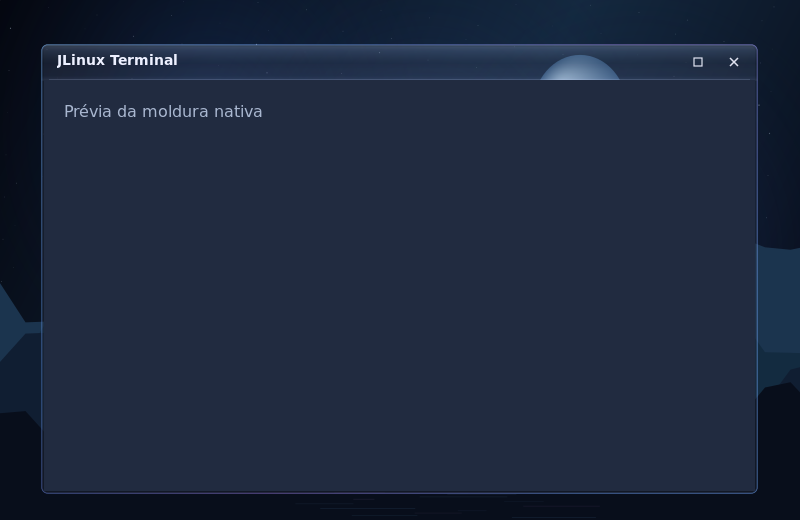
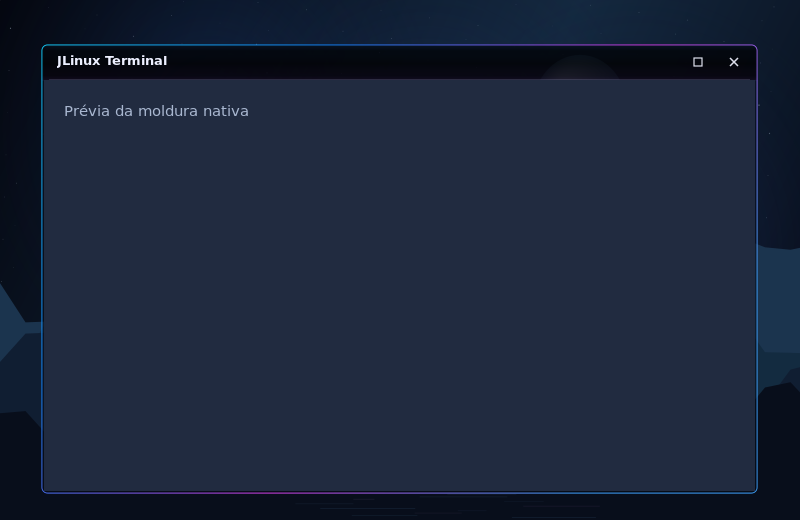
feat: consolidate pending desktop visuals on the installed base

Changed region(s): [[0.0312, 0.0615, 0.9688, 0.1538], [0.0625, 0.9231, 0.9375, 0.9538], [0.0938, 0.1846, 0.3125, 0.2462]]

diff --git a/src/shell/main.c b/src/shell/main.c
@@ -24,7 +24,8 @@
 #include <wayland-cursor.h>
 #include "layer-shell-client.h"
 extern char **environ;
-enum { PANEL_HEIGHT = 36, PANEL_MARGIN = 6, PANEL_ZONE = 44 };
+enum { PANEL_BODY_HEIGHT = 36, PANEL_FADE_HEIGHT = 16,
+    PANEL_HEIGHT = PANEL_BODY_HEIGHT + PANEL_FADE_HEIGHT, PANEL_MARGIN = 6, PANEL_ZONE = PANEL_HEIGHT };
 struct app;
 struct surface {
     struct app *app;
@@ -119,9 +120,9 @@ static void paint(struct surface *surface, cairo_t *cr) {
     } else if (surface == &surface->app->wallpaper) {
         ui_wallpaper(cr, width, height);
     } else {
-        jlinux_glass_paint(cr, (struct ui_rect){1, 1, width - 2, height - 2}, (height - 2) / 2.0,
-            surface->app->backdrop, PANEL_MARGIN, PANEL_MARGIN, surface->app->glass);
-        cairo_save(cr); cairo_translate(cr, 0, (height - 54) / 2.0);
+        jlinux_glass_panel_paint(cr, width, PANEL_BODY_HEIGHT, PANEL_FADE_HEIGHT,
+            surface->app->backdrop, surface->app->glass);
+        cairo_save(cr); cairo_translate(cr, 0, (PANEL_BODY_HEIGHT - 54) / 2.0);
         time_t now = time(NULL); struct tm local;
         localtime_r(&now, &local);
         char clock[64]; strftime(clock, sizeof(clock), "%d/%m  •  %H:%M", &local);
@@ -226,6 +227,12 @@ static bool create_surface(struct app *app, struct surface *surface, const char 
     zwlr_layer_surface_v1_set_exclusive_zone(surface->layer, zone);
     zwlr_layer_surface_v1_set_margin(surface->layer, margin, margin, margin, margin);
     zwlr_layer_surface_v1_set_keyboard_interactivity(surface->layer, ZWLR_LAYER_SURFACE_V1_KEYBOARD_INTERACTIVITY_NONE);
+    if (surface == &app->panel && !app->power_panel && !app->volume_panel) {
+        struct wl_region *input = wl_compositor_create_region(app->compositor);
+        if (!input) { return false; }
+        wl_region_add(input, 0, 0, 8192, PANEL_BODY_HEIGHT);
+        wl_surface_set_input_region(surface->wl, input); wl_region_destroy(input);
+    }
     if (surface == &app->wallpaper) {
         struct wl_region *empty = wl_compositor_create_region(app->compositor);
         if (!empty) { return false; }
@@ -267,7 +274,7 @@ static void toggle_power(struct app *app) {
         ZWLR_LAYER_SURFACE_V1_ANCHOR_TOP | ZWLR_LAYER_SURFACE_V1_ANCHOR_RIGHT, 320, 260, -1, PANEL_MARGIN)) {
         close_power(app); notice(app, "Não foi possível abrir o menu de energia."); return;
     }
-    zwlr_layer_surface_v1_set_margin(app->power.layer, PANEL_MARGIN + PANEL_HEIGHT + 6, PANEL_MARGIN, 0, 0);
+    zwlr_layer_surface_v1_set_margin(app->power.layer, PANEL_MARGIN + PANEL_BODY_HEIGHT + 6, PANEL_MARGIN, 0, 0);
     wl_surface_commit(app->power.wl);
 }
 static void request_power(struct app *app) {
@@ -382,11 +389,11 @@ static int preview(const char *path) {
     struct app app = {0};
     if (!jlinux_glass_settings(&app.glass)) { return 1; }
     app.wallpaper = (struct surface){.app = &app, .width = 1672, .height = 941};
-    app.panel = (struct surface){.app = &app, .width = 1672 - 2 * PANEL_MARGIN, .height = PANEL_HEIGHT};
+    app.panel = (struct surface){.app = &app, .width = 1672, .height = PANEL_HEIGHT};
     cairo_surface_t *image = cairo_image_surface_create(CAIRO_FORMAT_ARGB32, 1672, 941);
     if (!prepare_backdrop(&app)) { cairo_surface_destroy(image); return 1; }
     cairo_t *cr = cairo_create(image); paint(&app.wallpaper, cr);
-    cairo_push_group(cr); cairo_translate(cr, PANEL_MARGIN, PANEL_MARGIN); paint(&app.panel, cr);
+    cairo_push_group(cr); paint(&app.panel, cr);
     cairo_pop_group_to_source(cr); cairo_paint(cr); cairo_identity_matrix(cr);
     cairo_status_t status = cairo_surface_write_to_png(image, path);
     cairo_destroy(cr); cairo_surface_destroy(image);
@@ -431,10 +438,10 @@ int main(int argc, char **argv) {
     if (!power_panel && !volume_panel && !create_surface(&app, &app.wallpaper, "jlinux-wallpaper", ZWLR_LAYER_SHELL_V1_LAYER_BACKGROUND, all, 0, 0, -1, 0)) { goto cleanup; }
     if (!volume_panel && !create_surface(&app, &app.panel, power_panel ? "jlinux-power-button" : "jlinux-panel", power_panel ? ZWLR_LAYER_SHELL_V1_LAYER_OVERLAY : ZWLR_LAYER_SHELL_V1_LAYER_TOP,
         ZWLR_LAYER_SURFACE_V1_ANCHOR_TOP | ZWLR_LAYER_SURFACE_V1_ANCHOR_RIGHT |
-        (power_panel ? 0 : ZWLR_LAYER_SURFACE_V1_ANCHOR_LEFT), power_panel ? 44 : 0, PANEL_HEIGHT, power_panel ? -1 : PANEL_ZONE, PANEL_MARGIN)) { goto cleanup; }
+        (power_panel ? 0 : ZWLR_LAYER_SURFACE_V1_ANCHOR_LEFT), power_panel ? 44 : 0, power_panel ? PANEL_BODY_HEIGHT : PANEL_HEIGHT, power_panel ? -1 : PANEL_ZONE, power_panel ? PANEL_MARGIN : 0)) { goto cleanup; }
     if (volume_panel) {
         if (!create_surface(&app, &app.panel, "jlinux-volume-button", ZWLR_LAYER_SHELL_V1_LAYER_OVERLAY,
-            ZWLR_LAYER_SURFACE_V1_ANCHOR_TOP | ZWLR_LAYER_SURFACE_V1_ANCHOR_RIGHT, 54, PANEL_HEIGHT, -1, PANEL_MARGIN)) { goto cleanup; }
+            ZWLR_LAYER_SURFACE_V1_ANCHOR_TOP | ZWLR_LAYER_SURFACE_V1_ANCHOR_RIGHT, 54, PANEL_BODY_HEIGHT, -1, PANEL_MARGIN)) { goto cleanup; }
         zwlr_layer_surface_v1_set_margin(app.panel.layer, PANEL_MARGIN, 278, 0, 0);
         wl_surface_commit(app.panel.wl);
     }

diff --git a/src/effects/glass.c b/src/effects/glass.c
@@ -30,6 +30,7 @@ void jlinux_glass_paint(cairo_t *cr, struct ui_rect rect, double radius,
         cairo_save(cr); cairo_scale(cr, 4, 4);
         cairo_set_source_surface(cr, backdrop, -origin_x / 4, -origin_y / 4);
         cairo_pattern_set_filter(cairo_get_source(cr), CAIRO_FILTER_BILINEAR);
+        cairo_pattern_set_extend(cairo_get_source(cr), CAIRO_EXTEND_PAD);
         cairo_paint(cr); cairo_restore(cr);
     }
     if (effects.tint) {
@@ -98,6 +99,22 @@ void jlinux_glass_paint(cairo_t *cr, struct ui_rect rect, double radius,
     }
 }
 
+void jlinux_glass_panel_paint(cairo_t *cr, double width, double body_height, double fade_height,
+        cairo_surface_t *backdrop, struct jlinux_glass effects) {
+    double height = body_height + fade_height;
+    cairo_save(cr); cairo_rectangle(cr, 0, 0, width, height); cairo_clip(cr);
+    cairo_push_group(cr);
+    /* Keep every material edge outside the panel; only the alpha ramp ends it. */
+    jlinux_glass_paint(cr, (struct ui_rect){-6, -6, width + 12, height + 32}, 0,
+        backdrop, 0, 0, effects);
+    cairo_pop_group_to_source(cr);
+    cairo_pattern_t *fade = cairo_pattern_create_linear(0, body_height, 0, height);
+    cairo_pattern_add_color_stop_rgba(fade, 0, 1, 1, 1, 1);
+    cairo_pattern_add_color_stop_rgba(fade, 1, 1, 1, 1, 0);
+    cairo_mask(cr, fade); cairo_pattern_destroy(fade);
+    cairo_restore(cr);
+}
+
 bool jlinux_glass_settings(struct jlinux_glass *effects) {
     const char *names[] = {"JLINUX_GLASS_BLUR", "JLINUX_GLASS_TINT", "JLINUX_GLASS_REFLECTION", "JLINUX_GLASS_SHADOW"};
     bool *values[] = {&effects->blur, &effects->tint, &effects->reflection, &effects->shadow};
@@ -111,27 +128,33 @@ bool jlinux_glass_settings(struct jlinux_glass *effects) {
     return true;
 }
 
+void jlinux_glass_window_tint(cairo_t *cr, struct ui_rect rect, double radius) {
+    cairo_save(cr); rounded(cr, rect, radius);
+    cairo_set_source_rgba(cr, .006, .009, .016, .88); cairo_fill(cr);
+    cairo_restore(cr);
+}
+
 void jlinux_glass_window_reflections(cairo_t *cr, struct ui_rect rect, double radius, double header) {
     cairo_save(cr); rounded(cr, rect, radius); cairo_clip(cr);
     cairo_pattern_t *sheen = cairo_pattern_create_linear(0, rect.y, 0, rect.y + header);
-    cairo_pattern_add_color_stop_rgba(sheen, 0, .63, .77, 1, .12);
-    cairo_pattern_add_color_stop_rgba(sheen, .18, .34, .51, .85, .07);
+    cairo_pattern_add_color_stop_rgba(sheen, 0, .20, .55, 1, .12);
+    cairo_pattern_add_color_stop_rgba(sheen, .18, .12, .32, .78, .035);
     cairo_pattern_add_color_stop_rgba(sheen, .52, .02, .04, .09, .08);
-    cairo_pattern_add_color_stop_rgba(sheen, .86, .18, .24, .42, .04);
-    cairo_pattern_add_color_stop_rgba(sheen, 1, .65, .72, .94, .12);
+    cairo_pattern_add_color_stop_rgba(sheen, .86, .45, .16, .78, .045);
+    cairo_pattern_add_color_stop_rgba(sheen, 1, .58, .32, 1, .10);
     cairo_save(cr); cairo_rectangle(cr, rect.x, rect.y, rect.width, header); cairo_clip(cr);
     cairo_set_source(cr, sheen); cairo_paint(cr); cairo_restore(cr); cairo_pattern_destroy(sheen);
     /* A continuous chromatic rim avoids isolated white light sources. */
     for (int pass = 0; pass < 2; pass++) {
         cairo_pattern_t *edge = cairo_pattern_create_linear(rect.x, rect.y,
             rect.x + rect.width * .75, rect.y + rect.height);
-        double alpha = pass ? .94 : .18;
-        cairo_pattern_add_color_stop_rgba(edge, 0, .22, .62, 1, alpha);
-        cairo_pattern_add_color_stop_rgba(edge, .32, .14, .40, 1, alpha * .90);
-        cairo_pattern_add_color_stop_rgba(edge, .66, .70, .30, .94, alpha * .96);
-        cairo_pattern_add_color_stop_rgba(edge, 1, .25, .52, 1, alpha);
+        double alpha = pass ? 1 : .18;
+        cairo_pattern_add_color_stop_rgba(edge, 0, .08, .82, 1, alpha);
+        cairo_pattern_add_color_stop_rgba(edge, .32, .08, .52, 1, alpha);
+        cairo_pattern_add_color_stop_rgba(edge, .66, .84, .24, .91, alpha);
+        cairo_pattern_add_color_stop_rgba(edge, 1, .24, .64, 1, alpha);
         rounded(cr, rect, radius); cairo_set_source(cr, edge);
-        cairo_set_line_width(cr, pass ? .85 : 2.8); cairo_stroke(cr);
+        cairo_set_line_width(cr, pass ? 1.6 : 2.2); cairo_stroke(cr);
         cairo_pattern_destroy(edge);
     }
     cairo_restore(cr);

diff --git a/tests/window-frame.c b/tests/window-frame.c
@@ -29,6 +29,11 @@ int main(int argc, char **argv) {
     uint32_t left = *(uint32_t *)((unsigned char *)pixels + stride + 80 * 4);
     uint32_t middle = *(uint32_t *)((unsigned char *)pixels + stride + 360 * 4);
     uint32_t right = *(uint32_t *)((unsigned char *)pixels + stride + 640 * 4);
+    uint32_t edge = *(uint32_t *)((unsigned char *)pixels + 2 * stride + 80 * 4);
+    CHECK((edge & 255) > (left & 255));
+    uint32_t pink = *(uint32_t *)((unsigned char *)pixels + 2 * stride + 230 * 4);
+    CHECK(((pink >> 16) & 255) * 100 > (pink & 255) * 85);
+    CHECK(((pink >> 16) & 255) > ((pink >> 8) & 255) * 2);
     /* Continuous light: no former bottom hotspot; hue still changes along the rim. */
     for (int x = 81; x < 640; x++) {
         uint32_t previous = *(uint32_t *)((unsigned char *)pixels + stride + (x - 1) * 4);
@@ -45,6 +50,9 @@ int main(int argc, char **argv) {
     CHECK(wlr_buffer_begin_data_ptr_access(frame.parts[0]->buffer, WLR_BUFFER_DATA_PTR_ACCESS_READ,
         &pixels, &format, &stride));
     uint32_t plain = *(uint32_t *)((unsigned char *)pixels + stride + 195 * 4);
+    uint32_t header_center = *(uint32_t *)((unsigned char *)pixels + 18 * stride + 360 * 4);
+    CHECK((header_center >> 24) >= 220 && (header_center >> 24) < 255);
+    CHECK(((header_center >> 16) & 255) <= 8 && ((header_center >> 8) & 255) <= 8 && (header_center & 255) <= 8);
     wlr_buffer_end_data_ptr_access(frame.parts[0]->buffer);
     CHECK((lit >> 24) > (plain >> 24));
     CHECK(wlr_buffer_begin_data_ptr_access(frame.parts[3]->buffer, WLR_BUFFER_DATA_PTR_ACCESS_READ,
@@ -58,7 +66,13 @@ int main(int argc, char **argv) {
     uint32_t unshaded = *(uint32_t *)((unsigned char *)pixels + stride + 280 * 4);
     wlr_buffer_end_data_ptr_access(frame.parts[3]->buffer);
     CHECK((shaded >> 24) > (unshaded >> 24));
-    effects.shadow = true;
+    effects.tint = false;
+    CHECK(jlinux_window_frame_update(&frame, 711, 411, "JLinux Terminal", effects, false));
+    CHECK(wlr_buffer_begin_data_ptr_access(frame.parts[0]->buffer, WLR_BUFFER_DATA_PTR_ACCESS_READ,
+        &pixels, &format, &stride));
+    CHECK(*(uint32_t *)((unsigned char *)pixels + 18 * stride + 360 * 4) == 0);
+    wlr_buffer_end_data_ptr_access(frame.parts[0]->buffer);
+    effects.tint = true; effects.shadow = true;
 
     effects.reflection = true;
     CHECK(jlinux_window_frame_update(&frame, 711, 411, "JLinux Terminal", effects, false));

diff --git a/tests/glass-panel.c b/tests/glass-panel.c
@@ -1,0 +1,37 @@
+#include "../src/effects/glass.h"
+#include <stdint.h>
+#include <stdio.h>
+#define CHECK(test) do { if (!(test)) { fprintf(stderr, "Falha: %s\n", #test); return 1; } } while (0)
+static unsigned alpha(cairo_surface_t *image, int x, int y) {
+    cairo_surface_flush(image);
+    uint32_t *row = (uint32_t *)(cairo_image_surface_get_data(image) + y * cairo_image_surface_get_stride(image));
+    return row[x] >> 24;
+}
+int main(void) {
+    cairo_surface_t *backdrop = cairo_image_surface_create(CAIRO_FORMAT_ARGB32, 80, 13);
+    cairo_t *background = cairo_create(backdrop);
+    cairo_set_source_rgb(background, .08, .12, .22); cairo_paint(background); cairo_destroy(background);
+    for (int tint = 0; tint < 2; tint++) {
+        for (int reflection = 0; reflection < 2; reflection++) {
+            cairo_surface_t *image = cairo_image_surface_create(CAIRO_FORMAT_ARGB32, 320, 52);
+            cairo_t *cr = cairo_create(image);
+            jlinux_glass_panel_paint(cr, 320, 36, 16, backdrop,
+                (struct jlinux_glass){.tint = tint, .reflection = reflection});
+            CHECK(cairo_status(cr) == CAIRO_STATUS_SUCCESS);
+            CHECK(alpha(image, 0, 0) == 255 && alpha(image, 319, 0) == 255);
+            CHECK(alpha(image, 0, 30) == 255 && alpha(image, 319, 30) == 255);
+            for (int x = 0; x < 320; x++) {
+                unsigned previous = alpha(image, x, 35);
+                for (int y = 36; y < 52; y++) {
+                    unsigned current = alpha(image, x, y);
+                    CHECK(current < previous && previous - current <= 17);
+                    previous = current;
+                }
+                CHECK(previous <= 8);
+            }
+            cairo_destroy(cr); cairo_surface_destroy(image);
+        }
+    }
+    cairo_surface_destroy(backdrop);
+    return 0;
+}

diff --git a/scripts/smoke-side-snap.py b/scripts/smoke-side-snap.py
@@ -54,11 +54,11 @@ with tempfile.TemporaryDirectory(prefix='jlinux-snap-') as directory:
             processes.remove(two)
             assert size() == original, 'closing another window resized the first'
             mouse(x + 160, y - 18, 0, 240)
-            h.wait_for(lambda: 'Janela encaixada: Snap-1 (634x631 em 3,86)' in log(), processes, 'left half respecting panel without lateral reserve')
+            h.wait_for(lambda: 'Janela encaixada: Snap-1 (634x629 em 3,88)' in log(), processes, 'left half respecting panel without lateral reserve')
             half = size()
             assert half[1] < original[1]
             mouse(220, 68, 1279, 240)
-            h.wait_for(lambda: 'Janela encaixada: Snap-1 (634x631 em 643,86)' in log(), processes, 'right half')
+            h.wait_for(lambda: 'Janela encaixada: Snap-1 (634x629 em 643,88)' in log(), processes, 'right half')
             assert size() == half
             mouse(830, 68, 700, 240)
             assert size() == original, 'dragging away did not restore original dimensions'

diff --git a/src/renderer/window-frame.c b/src/renderer/window-frame.c
@@ -50,8 +50,12 @@ bool jlinux_window_frame_update(struct jlinux_window_frame *frame, int width, in
         int material_height = i == 0 ? header + JLINUX_FRAME_RADIUS : full_height;
         struct jlinux_glass material = effects;
         material.reflection = false; /* Window rims have their own continuous finish. */
-        jlinux_glass_paint(cr, (struct ui_rect){.5, .5, full_width - 1, material_height - 1},
-            JLINUX_FRAME_RADIUS, NULL, 0, 0, material);
+        struct ui_rect material_rect = {.5, .5, full_width - 1, material_height - 1};
+        if (i == 0 && effects.tint) {
+            jlinux_glass_window_tint(cr, material_rect, JLINUX_FRAME_RADIUS);
+        } else {
+            jlinux_glass_paint(cr, material_rect, JLINUX_FRAME_RADIUS, NULL, 0, 0, material);
+        }
         if (effects.shadow) {
             jlinux_glass_window_shading(cr,
                 (struct ui_rect){.5, .5, full_width - 1, full_height - 1}, JLINUX_FRAME_RADIUS);

diff --git a/scripts/smoke-shell.py b/scripts/smoke-shell.py
@@ -73,7 +73,7 @@ def main():
                         wait_for(lambda: log().count("Janela maximizada:") > iteration,
                                  [server, client], "maximização sem reserva lateral")
                         sizes = re.findall(r"Janela maximizada: .* \((\d+)x(\d+) em (\d+),(\d+)\)", log())
-                        assert tuple(map(int, sizes[-1])) == (1274, 631, 3, 86), sizes[-1]
+                        assert tuple(map(int, sizes[-1])) == (1274, 629, 3, 88), sizes[-1]
 
                     stop(client)
                     assert client.returncode == 0, f"Shell encerrou com erro: {client.returncode}"

diff --git a/src/effects/glass.h b/src/effects/glass.h
@@ -2,6 +2,9 @@
 #define JLINUX_GLASS_H
 #include "../toolkit/painter.h"
 struct jlinux_glass { bool blur, tint, reflection, shadow; };
+void jlinux_glass_panel_paint(cairo_t *cr, double width, double body_height, double fade_height,
+    cairo_surface_t *backdrop, struct jlinux_glass effects);
+void jlinux_glass_window_tint(cairo_t *cr, struct ui_rect rect, double radius);
 void jlinux_glass_window_shading(cairo_t *cr, struct ui_rect rect, double radius);
 void jlinux_glass_window_reflections(cairo_t *cr, struct ui_rect rect, double radius, double header);
 bool jlinux_glass_settings(struct jlinux_glass *effects);

diff --git a/docs/applied-updates.md b/docs/applied-updates.md
@@ -1,0 +1,22 @@
+# Consolidação dos pedidos do usuário
+
+Esta integração reúne os pedidos de produto ainda válidos sobre a instalação existente. Branch ou PR aberto não significa que o código já está no pacote. Uma escolha posterior do usuário prevalece sobre versões anteriores.
+
+| Pedido | Fonte | Resultado nesta integração |
+| --- | --- | --- |
+| Tom rosado discreto nas bordas | #54 / b55aaa2 | Cor mais recente: stop RGB (.84, .24, .91), combinado com o contorno definido |
+| Cabeçalho quase preto e contorno nítido | #49 / bc702d5 | Base translúcida a 88%, traço 1,6 px e halo 2,2 px a 18% |
+| Barra superior reta, sem margem e com fade inferior | #47 / f59e445 | 36 px de controles + 16 px de fade; sem linha inferior e sem menus à esquerda |
+| Remover completamente o dock | #57 / c81b589 | Mantido: sem superfície, seletor, configuração ou reserva lateral |
+| Encaixe lateral manual em vez de organização automática | #44 / 6df67d0 | Mantido; nenhuma restauração do tiling automático de #38/#42 |
+| Volume, energia, Arquivos, pastas pessoais e idioma | Base instalada | Mantidos, sem reintroduzir lançadores removidos |
+| Arquivos como padrão para pastas | #58 / 850294f | Mantido, incluindo xdg-utils e precedência das preferências pessoais |
+| Navegador: abas, vídeo, pesquisa, adblock, cabeçalho, downloads e imagens Blob | #32/#36/#40/#46/#48/#50/#52/#53/#59/#60 | Já contidos no código instalado 21be53d; branch posterior difere somente em documentação |
+
+Não foram reativados docks antigos, rótulos de menus ou layouts substituídos. V1/V2 rejeitados, propostas de arquitetura e itens futuros de TASKS.md não são funcionalidades pendentes de instalação. As fotos originais continuam como referência visual; não há promessa de reprodução integral.
+
+Os helpers de pintura de #47/#49 e a cor de #54 são reutilizados sobre a base sem dock. O shell mantém os botões transitórios de volume/energia nas posições anteriores. Só a reserva superior muda de 50 para 52 px, com testes de maximização e snap atualizados. BLUR/TINT/REFLECTION/SHADOW continuam independentes; o vidro do shell usa apenas o wallpaper em cache.
+
+Validação de código: 20 cenários release e os mesmos 20 com ASan/UBSan, incluindo teste específico do tom rosado, cabeçalho preto/translúcido, fade, área útil, ausência do dock, encaixe lateral e controles preservados. A prévia nativa atual foi inspecionada em 1672×941; a moldura foi comparada antes/depois. Não são capturas da sessão. Navegador não foi modificado ou retestado nesta integração; o pacote instalado foi auditado por commit de origem.
+
+Instalação e ativação são etapas separadas: o pacote novo não substitui o compositor/shell já em execução. Sem recarga segura, é necessário novo login. Não encerrar aplicativos sem combinar com o usuário. A versão efetivamente instalada e os checks do pacote são registrados após a instalação em TASKS.md e docs/arch-installation.md.

diff --git a/TASKS.md b/TASKS.md
@@ -342,3 +342,9 @@ Associação de sistema para inode/directory em /etc/xdg/mimeapps.list, preserva
 O usuário autorizou instalar/aplicar diretamente no sistema toda alteração solicitada, após os checks, além de commit/push. Regra registrada em AGENTS.md; preservar atualizações instaladas e combinar logout/reinício quando houver encerramento de aplicativos.
 
 **SHELL-NO-DOCK · instalado em 06/11/2026:** pacote `0.5.0.r73.gc81b589-1`, fonte c81b589, compilado da branch GitHub após incorporar feature/default-file-manager para preservar a instalação 850294f (bordas rosadas e associação de pastas). Os 19 testes do makepkg passaram; pacman -Qkk confirmou 20 arquivos/zero alterações; hash do shell corresponde ao pacote e inode/directory continua associado a Arquivos JLinux. Teste do iniciador instalado em headless privado por dois segundos e prévia do shell passaram. Instalação anterior preservada no cache do pacman. Sessão greetd atual intacta: shell antigo em execução; remoção visível no próximo login. Sem logout, VT, DRM, benchmark ou alegação de ativação visual imediata.
+
+## Aplicar pedidos pendentes em conjunto — feature/apply-pending-updates
+
+- Auditoria identificou que o pacote c81b589 preservava apenas o rosado simplificado de #56. Faltavam a combinação completa de #54 (rosado), #49 (cabeçalho preto/contorno nítido) e #47 (painel reto/fade). Esses componentes foram reutilizados sobre a base sem dock de #57, preservando encaixe manual, remoção de menus, associação de pastas e controles existentes. Inventário em docs/applied-updates.md.
+- Código do navegador instalado em 21be53d já inclui os pedidos anteriores e o fix de imagens Blob; a branch atual só acrescenta documentação. Sem reinstalação ou alteração do navegador nesta entrega.
+- 20 testes locais release passaram; novo assert de pixels distingue o rosado mais recente da adaptação anterior. Prévias do shell/moldura/Arquivos inspecionadas. Os 20 cenários também passaram com ASan/UBSan; pacote e ativação física ainda não realizados nesta etapa. Não reintroduzir docks, menus ou tiling automático substituídos por pedidos posteriores.

diff --git a/docs/visual-style.md b/docs/visual-style.md
@@ -97,3 +97,7 @@ Quatorze testes locais release e ASan/UBSan passaram. Teste da moldura passa a c
 O toolkit nativo aplica 93% do tamanho nominal dos textos (aproximadamente 7% menor), compartilhado por shell, molduras, Arquivos e greeter. Não configura fontes do terminal nem de aplicativos externos. O material compartilhado usa tonalização azul-preta mais escura e menor reflexão ampla sobre as superfícies, com contornos azuis/violetas mais saturados e intensos. A espessura dos contornos permanece igual. Arquivos recebe também um gradiente de fundo mais escuro; wallpaper e ícones permanecem preservados.
 
 Os controles independentes de tint/reflection continuam respeitados. São novos valores padrão compilados, sem editor de tema ou recarga ao vivo. Não comprovam fidelidade às fotos nem desempenho de GPU. Prévias do shell, Arquivos e moldura foram inspecionadas; comparação antes/depois de Arquivos na mesma resolução mostrou a redução da fonte e o escurecimento das superfícies.
+
+## Consolidação aplicada aos pedidos mais recentes
+
+A integração `feature/apply-pending-updates` reúne o cabeçalho preto translúcido (88%), contorno nítido (1,6 px), halo reduzido (2,2 px a 18%) e o rosado de #54 — RGB (.84, .24, .91) no stop antes violeta. A barra superior ocupa toda a largura no topo, com cantos retos e 16 px de fade abaixo dos 36 px de controles. Dock e rótulos de menus removidos permanecem ausentes. Inventário e precedência dos pedidos em [applied-updates.md](applied-updates.md); versões anteriores descritas acima são histórico.

diff --git a/docs/visual-pipeline.md b/docs/visual-pipeline.md
@@ -68,3 +68,7 @@ Sombreamento interno das molduras: `JLINUX_GLASS_SHADOW=0/1` (padrão ligado) co
 ### Acabamento contínuo atual das janelas
 
 O pedido de borda neon discreta substitui os quatro pontos de brilho da moldura: gradiente azul/violeta, traço de 0,85 px e halo interno recortado de 2,8 px. A geometria segue 3 px nas laterais/inferior. REFLECTION controla esse acabamento; SHADOW permanece independente. Material de janela não chama os reflexos pontuais do dock/painel; esses componentes permanecem intactos. Renderização continua por eventos, em faixas estreitas, sem loop novo.
+
+## Integração do material pendente
+
+`jlinux_glass_panel_paint` aplica a máscara de 16 px ao material compartilhado, com grupo Cairo restrito ao painel; a reserva superior fica em 52 px e somente os 36 px de controles recebem entrada. `jlinux_glass_window_tint` substitui o preenchimento genérico do cabeçalho quando TINT está ativo, preservando transparência e os quatro buffers estreitos da moldura. REFLECTION controla separadamente o contorno mais nítido e seu toque rosado. São os helpers já validados nas branches visuais, agora combinados com a base instalada sem dock; não há novo loop ou blur de janelas.
